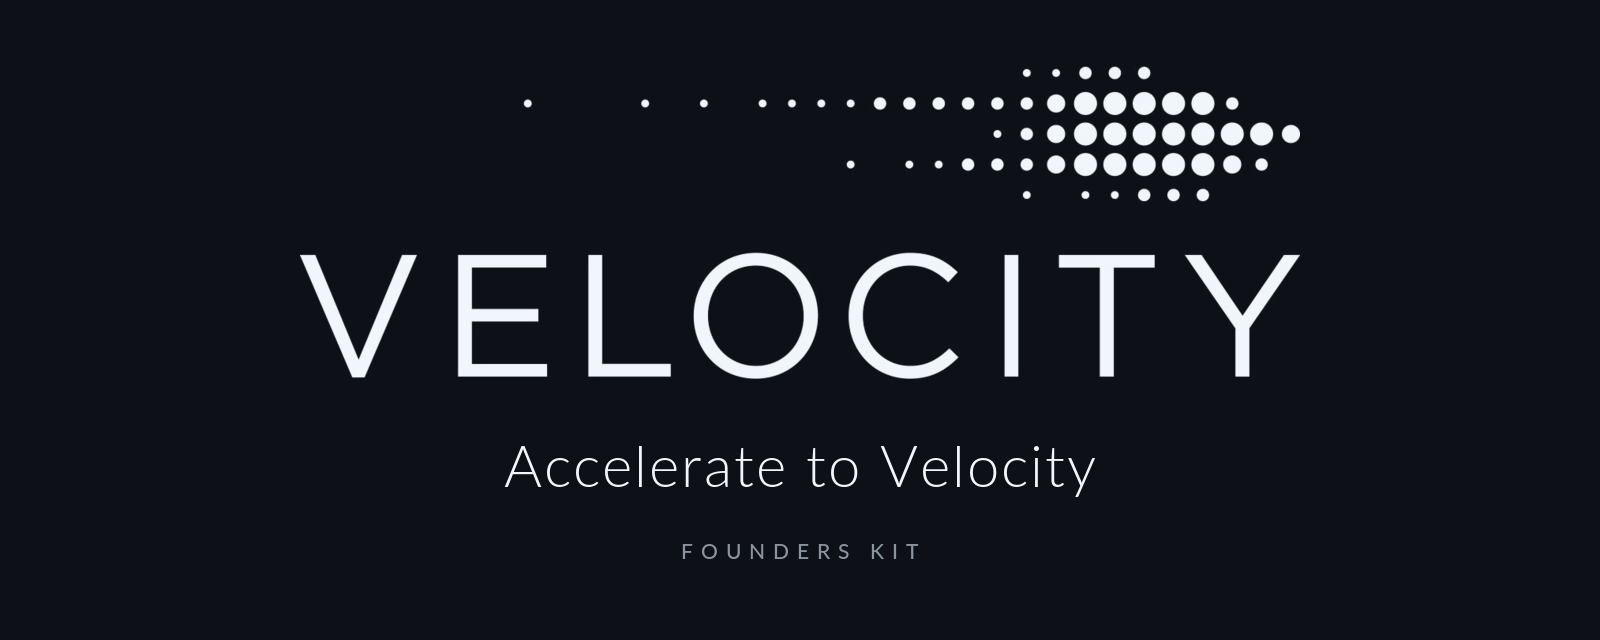
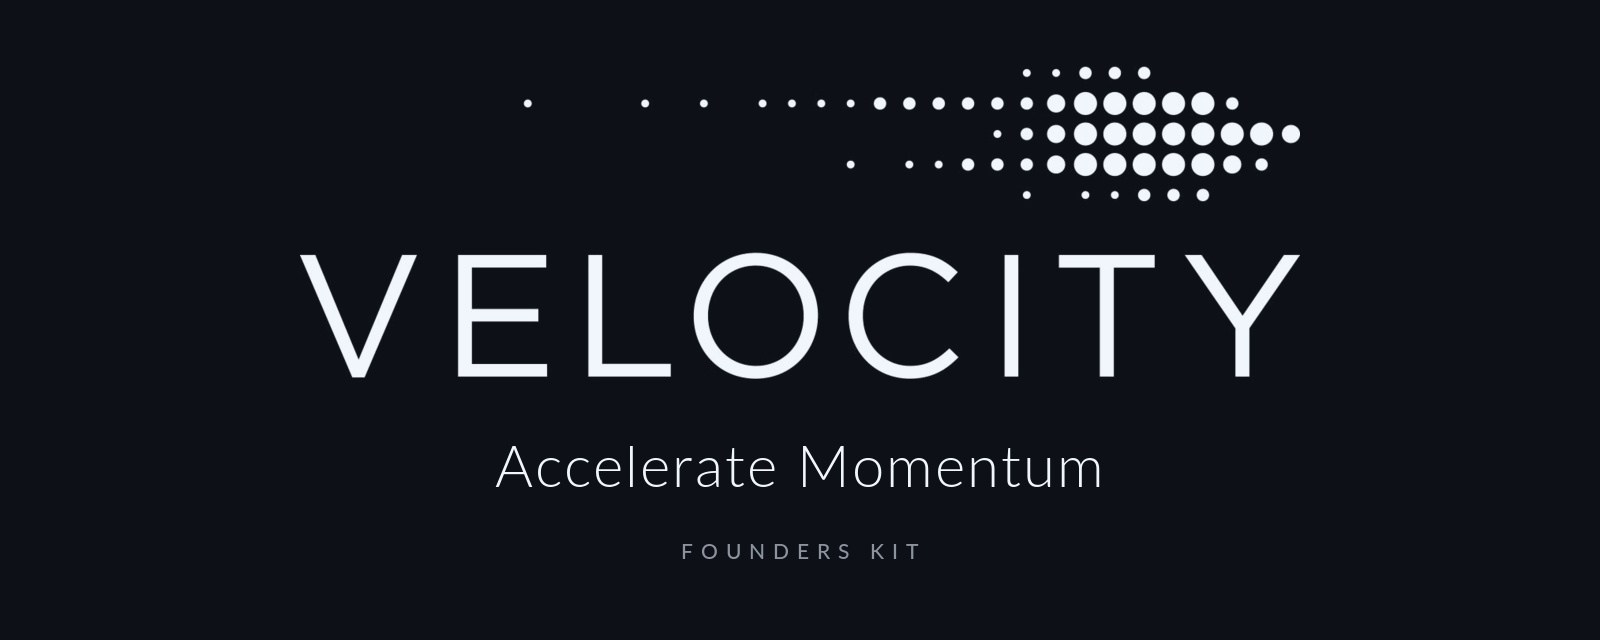
Change tagline to Accelerate Momentum

Changed region(s): [[0.3125, 0.6875, 0.6875, 0.7812]]

diff --git a/README.md b/README.md
@@ -2,13 +2,13 @@
   <picture>
     <source media="(prefers-color-scheme: dark)" srcset="assets/hero-dark.png">
     <source media="(prefers-color-scheme: light)" srcset="assets/hero-light.png">
-    <img alt="Velocity logo with the tagline Accelerate to Velocity, Founders Kit" src="assets/hero-light.png" width="800">
+    <img alt="Velocity logo with the tagline Accelerate Momentum, Founders Kit" src="assets/hero-light.png" width="800">
   </picture>
 </p>
 
 # Founders Kit: Velocity Edition ⚙
 
-> **Accelerate to Velocity.** Every important Velocity link, event and signup in one place, plus tools and Claude skills for the work that gets founders in: customer discovery, cold outreach, letters of intent and applications.
+> **Accelerate Momentum.** Every important Velocity link, event and signup in one place, plus tools and Claude skills for the work that gets founders in: customer discovery, cold outreach, letters of intent and applications.
 
 [![GitHub stars](https://img.shields.io/github/stars/bing1100/founders-kit-velocity?style=social)](https://github.com/bing1100/founders-kit-velocity)
 [![GitHub forks](https://img.shields.io/github/forks/bing1100/founders-kit-velocity?style=social)](https://github.com/bing1100/founders-kit-velocity/network)
